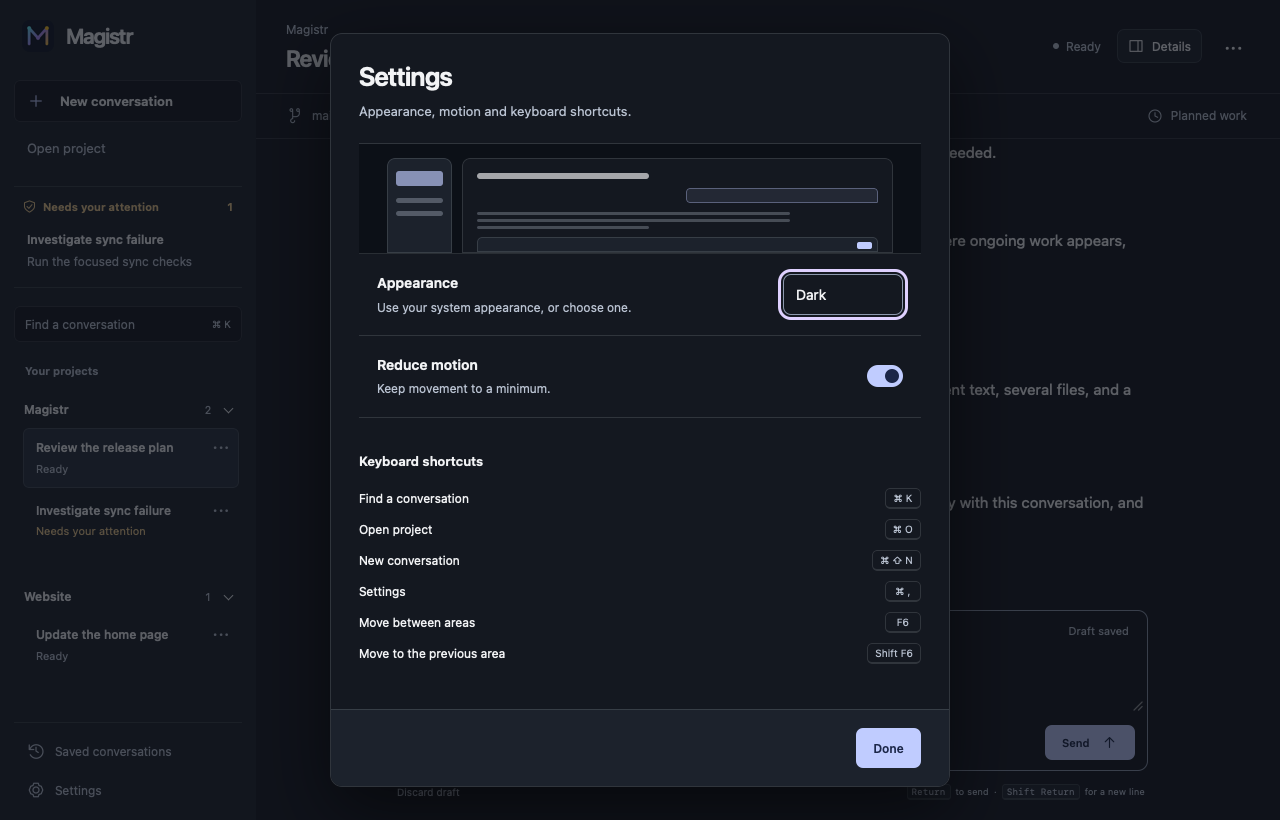
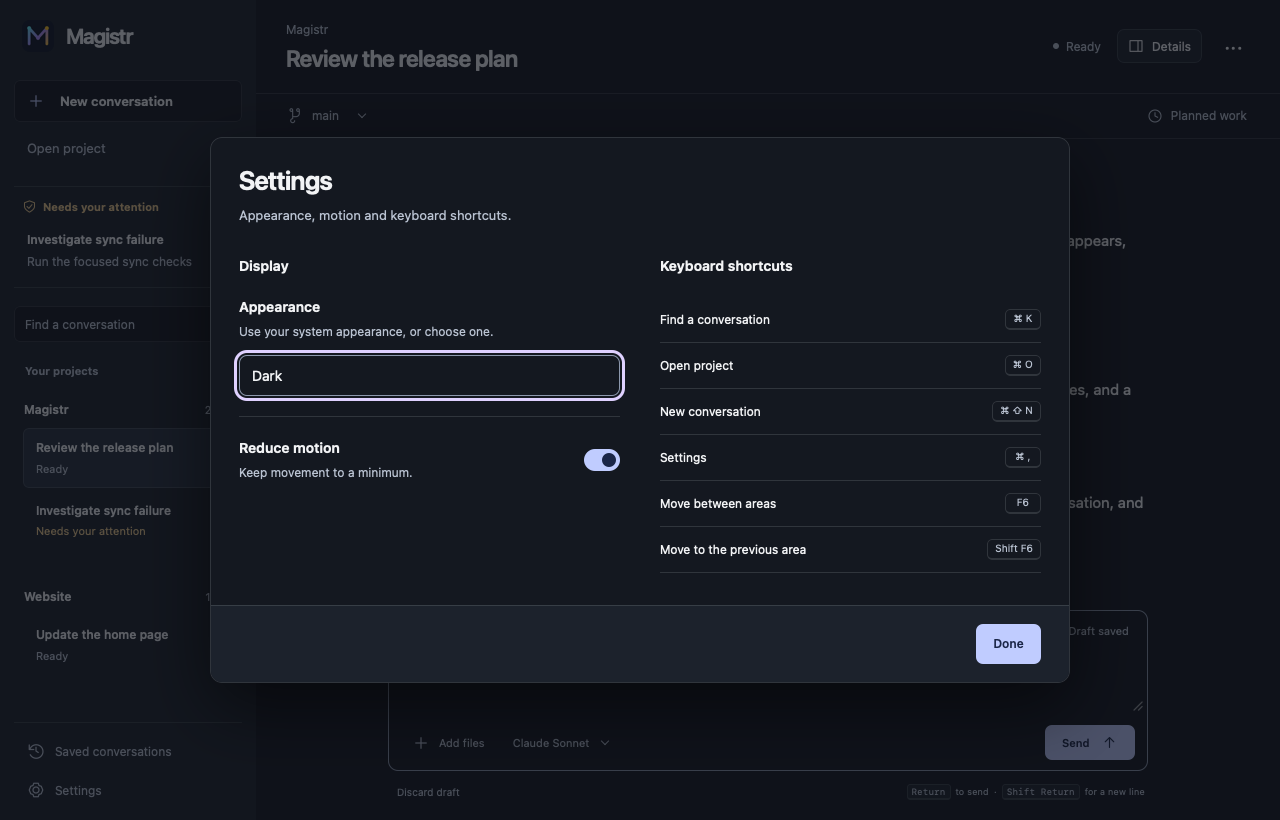
feat(desktop): design a concise settings sheet

diff --git a/crates/magistr-desktop/ui/style.css b/crates/magistr-desktop/ui/style.css
@@ -15,8 +15,8 @@ kbd{font:inherit;font-size:11px;line-height:1.4;color:var(--muted);white-space:n
 .switch-state{display:flex;align-items:center;font-size:11px;color:var(--muted);white-space:nowrap}[aria-current=true]>.switch-state{color:var(--muted)}[data-attention=true]>.switch-state{color:var(--warning)}.switch-footer{justify-content:space-between}
 .switch-footer p{font-size:11px;margin:0}#switch-count{font-weight:600;color:var(--text)}#switch-hint{display:flex;gap:12px;margin-top:8px}#switch-hint span{display:flex;align-items:center;gap:5px}#switch-hint kbd{font:10px var(--font-ui);border:1px solid var(--separator);border-bottom-width:2px;border-radius:4px;padding:2px 5px;background:var(--panel)}#switch-empty{padding:36px 28px;margin:0;font-size:14px;text-align:center}@media(max-width:600px){#switch-results button{grid-template-columns:minmax(0,1fr);gap:10px}.switch-state{grid-column:1;justify-self:start}.switch-search,.switch-heading{padding-inline:20px}.switch-search>[data-icon]{left:36px}}#switch-error{margin:0 28px 12px;padding:10px;font-size:13px;max-height:100px;overflow:auto}
 #settings{max-height:calc(100dvh - 56px)}#settings[open]{display:flex;flex-direction:column}.settings-heading{flex-shrink:0}.settings-content{min-height:0;overflow:auto;padding:3px}
-.settings-shortcuts{padding:16px 0;margin-top:18px}.settings-shortcuts h3{font-size:13px;font-weight:600;color:var(--text);margin:0 0 12px}
-.settings-shortcuts dl{margin:0}.settings-shortcuts dl>div{display:flex;align-items:center;justify-content:space-between;gap:20px;padding:5px 0;font-size:12px}.settings-shortcuts dd{margin:0}.settings-shortcuts kbd{display:block;min-width:36px;text-align:center;font:10px var(--font-ui);padding:3px 7px;border:1px solid var(--separator);border-bottom-width:2px;border-radius:5px;background:var(--base);color:var(--muted)}
+.settings-shortcuts{padding:0;margin:0;min-width:0}
+.settings-shortcuts dl{margin:0}.settings-shortcuts dl>div{display:flex;align-items:center;justify-content:space-between;gap:20px;padding:12px 0;font-size:12px;border-bottom:1px solid var(--separator)}.settings-shortcuts dd{margin:0}.settings-shortcuts kbd{display:block;min-width:36px;text-align:center;font:10px var(--font-ui);padding:3px 7px;border:1px solid var(--separator);border-bottom-width:2px;border-radius:5px;background:var(--base);color:var(--muted)}
 @media(max-width:1100px){#find-conversation{font-size:11px}#find-conversation kbd{font-size:9px}}
 
 :root{
@@ -274,11 +274,16 @@ dialog{--dialog-gutter:28px;max-height:calc(100dvh - 48px);overflow:hidden;borde
 dialog::backdrop{background:color-mix(in srgb,var(--canvas) 65%,transparent)}dialog h2{font-size:27px;line-height:1.2;font-weight:620;color:var(--text);text-transform:none;letter-spacing:-.035em;margin-bottom:10px}
 dialog p{color:var(--muted);margin-bottom:18px;line-height:1.65}dialog label{display:block;margin-bottom:8px;font-size:12px;font-weight:550}dialog input,dialog select{width:100%;min-height:40px;background:var(--panel);border-radius:8px;padding:9px 12px}dialog input:focus,dialog select:focus{background:var(--base)}dialog input[type=checkbox],dialog input[type=radio]{min-height:16px}dialog button{font-size:12px}
 dialog h3{margin:20px 0 10px;font-size:17px}.dialog-actions{display:flex;justify-content:flex-end;gap:10px;margin:0;flex-shrink:0;background:transparent}.dialog-actions button{min-height:38px;padding:8px 15px;border-radius:8px}.dialog-actions button:first-child:not(:last-child){border-color:var(--separator);background:var(--panel)}
-#settings{width:620px;padding:0}.settings-content{padding:0 var(--dialog-gutter) 24px}
-.settings-section{border-block:1px solid var(--separator);overflow:hidden}.appearance-preview{height:110px;display:grid;grid-template-columns:65px 1fr;gap:10px;padding:14px 28px 0;background:var(--canvas);border-bottom:1px solid var(--separator);overflow:hidden}.preview-rail{display:flex;flex-direction:column;gap:8px;padding:12px 8px;background:var(--panel);border:1px solid var(--separator);border-radius:8px 8px 0 0}.preview-rail i{display:block;height:5px;background:var(--muted);opacity:.35;border-radius:3px}.preview-rail i:first-child{height:15px;background:var(--accent);opacity:.65;margin-bottom:4px}.preview-conversation{position:relative;padding:14px;background:var(--base);border:1px solid var(--separator);border-radius:8px 8px 0 0}.preview-title{width:43%;height:6px;border-radius:3px;background:var(--text);opacity:.65}.preview-message{width:48%;height:15px;margin:9px 0 9px auto;border:1px solid color-mix(in srgb,var(--accent) 35%,transparent);border-radius:4px 4px 1px 4px;background:var(--tint)}.preview-lines{display:grid;gap:4px;width:78%}.preview-lines i{height:3px;background:var(--muted);opacity:.3;border-radius:3px}.preview-lines i:last-child{width:55%}.preview-composer{position:absolute;bottom:0;left:14px;right:14px;height:15px;border:1px solid var(--separator);border-radius:5px 5px 0 0;background:var(--panel)}.preview-composer i{display:block;width:15px;height:7px;border-radius:2px;background:var(--button);margin:4px 5px 0 auto}.settings-row{display:flex;align-items:center;justify-content:space-between;gap:24px;padding:18px}.settings-row+.settings-row{border-top:1px solid var(--separator)}
+#settings{width:860px;padding:0}.settings-content{display:grid;grid-template-columns:minmax(0,1fr) minmax(0,1fr);gap:40px;padding:8px var(--dialog-gutter) 32px}
+.settings-section{min-width:0}
+.settings-content h3{font-size:14px;font-weight:600;color:var(--text);margin:0 0 20px}
+.settings-row{display:flex;align-items:center;justify-content:space-between;gap:24px;padding:20px 0}
+.settings-section .settings-row:first-of-type{display:grid;grid-template-columns:minmax(0,1fr);justify-content:normal;gap:14px;padding-top:0}
+.settings-row+.settings-row{border-top:1px solid var(--separator)}
+
 .settings-row label{margin:0 0 4px;font-size:14px;font-weight:600}.settings-row p{margin:0;font-size:12px}
-.settings-row select{width:120px;min-width:120px}.settings-row input{appearance:none;position:relative;width:36px;height:22px;min-width:36px;min-height:22px;border:1px solid var(--line);border-radius:12px;background:var(--raised);padding:0;margin:0;cursor:pointer}.settings-row input::before{content:"";position:absolute;top:3px;left:3px;width:14px;height:14px;border-radius:50%;background:var(--muted)}.settings-row input:checked{background:var(--button);border-color:var(--button)}.settings-row input:checked::before{left:17px;background:var(--button-text)}.settings-row input:disabled{opacity:.5;cursor:default}@media(forced-colors:active){.settings-row input{appearance:auto;width:22px;min-width:22px}.settings-row input::before{display:none}.appearance-preview{display:none}}
-@media(max-height:740px){.appearance-preview{height:60px}.settings-row{padding:14px 18px}.settings-shortcuts{padding:12px;margin-top:14px}.settings-shortcuts dl>div{padding:3px 0}}
+.settings-row select{width:100%;min-width:120px}.settings-row input{appearance:none;position:relative;width:36px;height:22px;min-width:36px;min-height:22px;border:1px solid var(--line);border-radius:12px;background:var(--raised);padding:0;margin:0;cursor:pointer}.settings-row input::before{content:"";position:absolute;top:3px;left:3px;width:14px;height:14px;border-radius:50%;background:var(--muted)}.settings-row input:checked{background:var(--button);border-color:var(--button)}.settings-row input:checked::before{left:17px;background:var(--button-text)}.settings-row input:disabled{opacity:.5;cursor:default}@media(forced-colors:active){.settings-row input{appearance:auto;width:22px;min-width:22px}.settings-row input::before{display:none}}
+
 #preferences-note{font-size:12px;color:var(--muted);margin-top:12px}#preferences-note:empty{display:none}
 #project-picker{width:620px;padding:0;max-width:calc(100vw - 48px);max-height:calc(100dvh - 56px)}
 #project-picker.has-review{width:1040px;height:min(740px,calc(100dvh - 56px))}
@@ -417,4 +422,7 @@ dialog h3{margin:20px 0 10px;font-size:17px}.dialog-actions{display:flex;justify
 .switch-group h3{font-size:13px;font-weight:600;margin:0}
 .switch-group header>span{font-size:11px;color:var(--muted);font-variant-numeric:tabular-nums}
 .switch-group header>p{grid-column:1/-1;font:10px/1.5 var(--font-code);overflow-wrap:anywhere;margin:0;color:var(--muted)}
+
+#preferences-note{font-size:12px;margin:0;line-height:1.6}#preferences-note:empty{display:none}
+@media(max-width:680px){.settings-content{grid-template-columns:1fr;gap:32px;padding-top:0}.settings-content h3{margin-bottom:16px}.settings-shortcuts dl>div{padding-block:10px}}
 

diff --git a/crates/magistr-desktop/ui/index.html b/crates/magistr-desktop/ui/index.html
@@ -106,11 +106,10 @@
 <dialog id="settings" aria-labelledby="settings-title">
   <div class="settings-heading dialog-heading"><h2 id="settings-title">Settings</h2><p>Appearance, motion and keyboard shortcuts.</p></div>
   <div class="settings-content"><section class="settings-section" aria-label="Appearance and motion">
-    <div class="appearance-preview" aria-hidden="true"><div class="preview-rail"><i></i><i></i><i></i></div><div class="preview-conversation"><div class="preview-title"></div><div class="preview-message"></div><div class="preview-lines"><i></i><i></i><i></i></div><div class="preview-composer"><i></i></div></div></div>
+    <h3>Display</h3>
     <div class="settings-row"><div><label for="theme">Appearance</label><p>Use your system appearance, or choose one.</p></div><select id="theme" disabled><option value="system">System</option><option value="dark">Dark</option><option value="light">Light</option></select></div>
     <div class="settings-row"><div><label for="reduce-motion">Reduce motion</label><p>Keep movement to a minimum.</p></div><input id="reduce-motion" type="checkbox" disabled></div>
-  </section>
-  <p id="preferences-note" role="status"></p><button id="retry-preferences" hidden>Retry preferences</button>
+  <p id="preferences-note" role="status"></p><button id="retry-preferences" hidden>Retry preferences</button></section>
   <section class="settings-shortcuts" aria-label="Keyboard shortcuts"><h3>Keyboard shortcuts</h3>
     <dl><div><dt>Find a conversation</dt><dd><kbd id="settings-find-shortcut"></kbd></dd></div><div><dt>Open project</dt><dd><kbd id="open-project-shortcut"></kbd></dd></div><div><dt>New conversation</dt><dd><kbd id="new-session-shortcut"></kbd></dd></div><div><dt>Settings</dt><dd><kbd id="open-settings-shortcut"></kbd></dd></div><div><dt>Move between areas</dt><dd><kbd>F6</kbd></dd></div><div><dt>Move to the previous area</dt><dd><kbd>Shift F6</kbd></dd></div></dl>
   </section></div>
